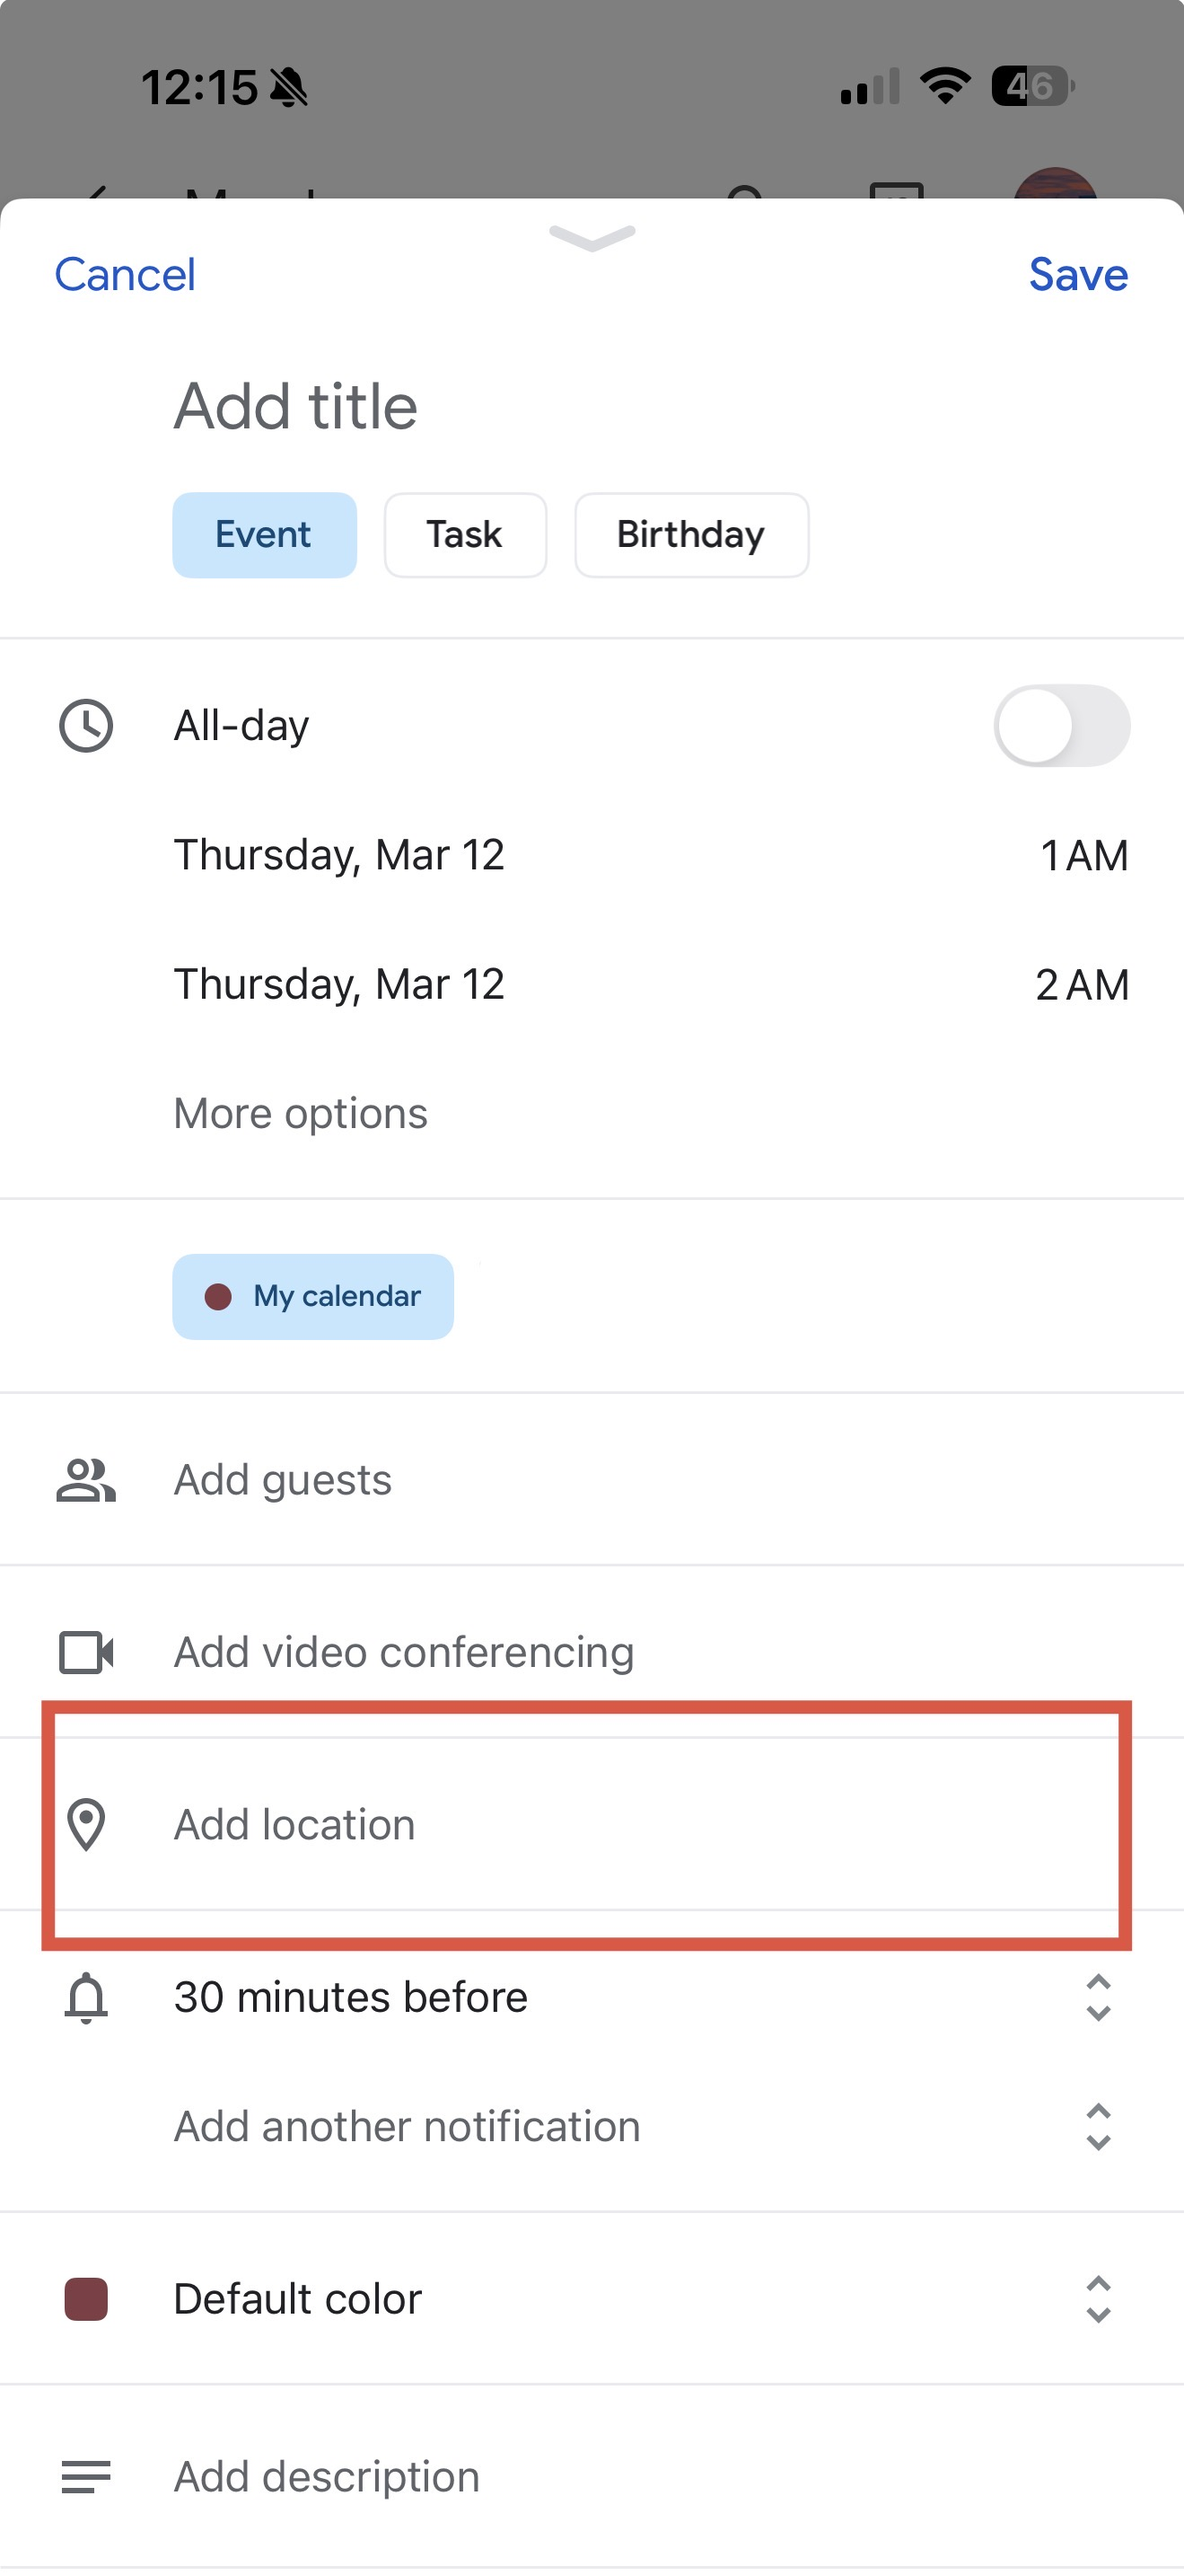
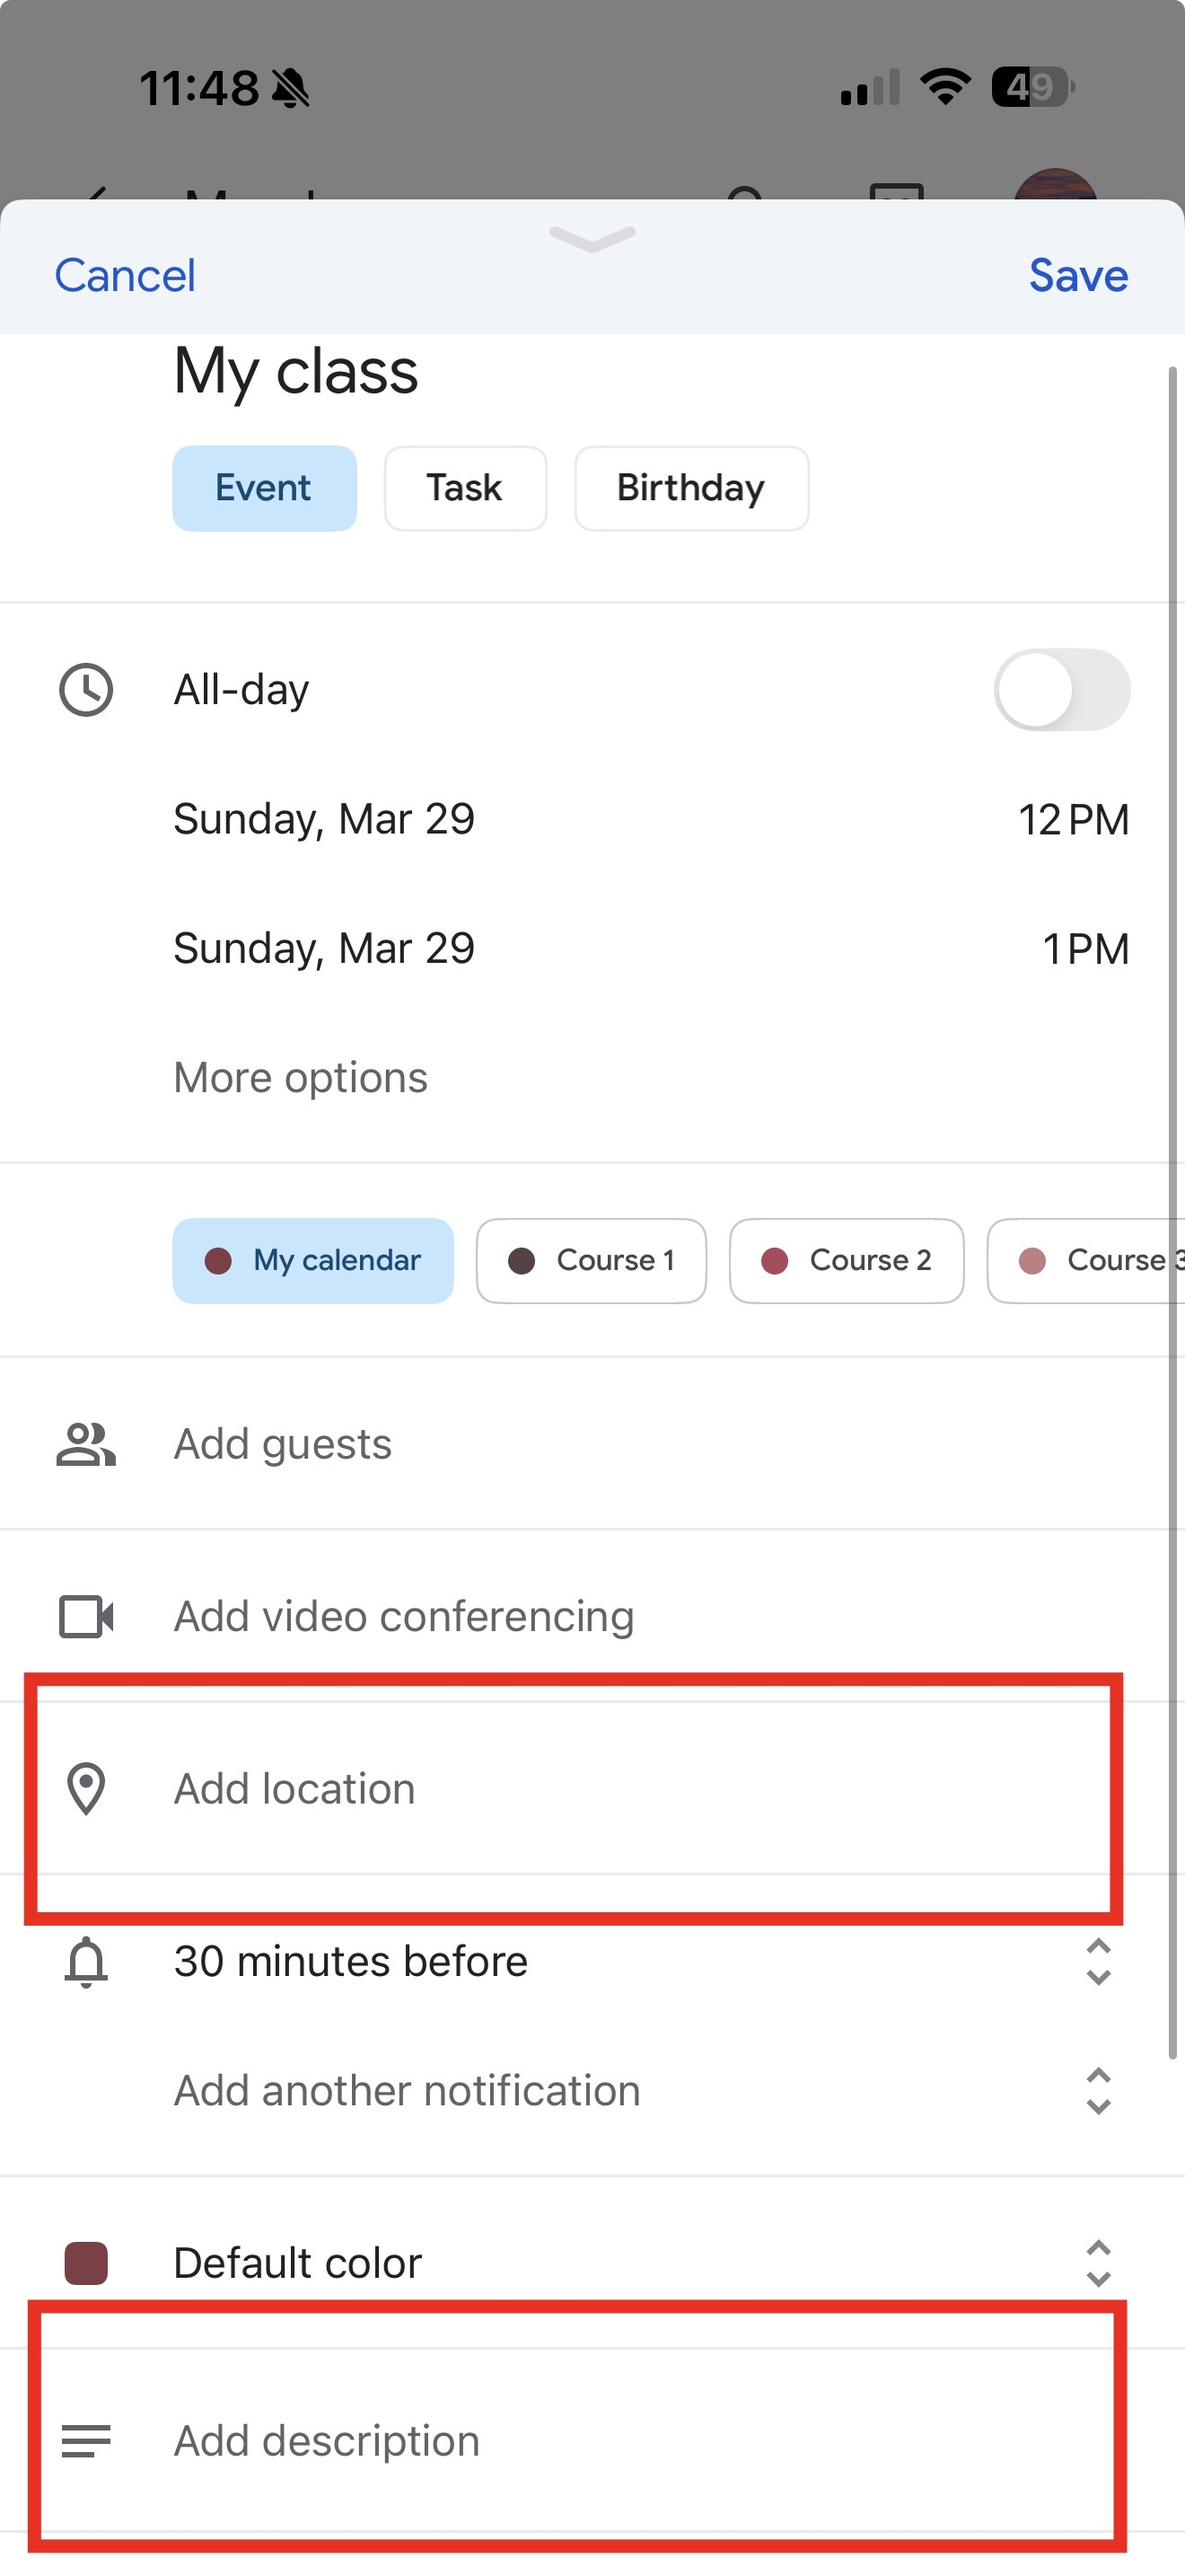
arranging calendar setup page

diff --git a/lib/features/calendar/ui/google_calendar_setup_screen.dart b/lib/features/calendar/ui/google_calendar_setup_screen.dart
@@ -15,10 +15,7 @@ class GoogleCalendarSetupScreen extends StatelessWidget {
             children: [
               IconButton(
                 onPressed: () => Navigator.pop(context),
-                icon: const Icon(
-                  Icons.arrow_back,
-                  color: Color(0xFF7F1D3A),
-                ),
+                icon: const Icon(Icons.arrow_back, color: Color(0xFF7F1D3A)),
                 padding: EdgeInsets.zero,
                 constraints: const BoxConstraints(),
               ),
@@ -43,7 +40,7 @@ class GoogleCalendarSetupScreen extends StatelessWidget {
               ),
               const SizedBox(height: 32),
 
-              const _StepSection( 
+              const _StepSection(
                 title: 'Step 1',
                 description:
                     'Click on the + sign at the bottom right of your screen and choose event.',
@@ -56,6 +53,14 @@ class GoogleCalendarSetupScreen extends StatelessWidget {
                 description:
                     'Set the location of the event as the building name/code your class is in and the description as the room number.',
                 imagePath: 'assets/images/google_calendar_step2.png',
+              ),
+              const SizedBox(height: 28),
+
+              const _StepSection(
+                title: 'Step 3',
+                description:
+                    'Here is an example of how your calendar should look after setting up your classes, given the room is Hall-110',
+                imagePath: 'assets/images/google_calendar_step3.png',
               ),
               const SizedBox(height: 28),
             ],
@@ -105,10 +110,7 @@ class _StepSection extends StatelessWidget {
           child: Container(
             width: double.infinity,
             color: Colors.white,
-            child: Image.asset(
-              imagePath,
-              fit: BoxFit.contain,
-            ),
+            child: Image.asset(imagePath, fit: BoxFit.contain),
           ),
         ),
       ],
